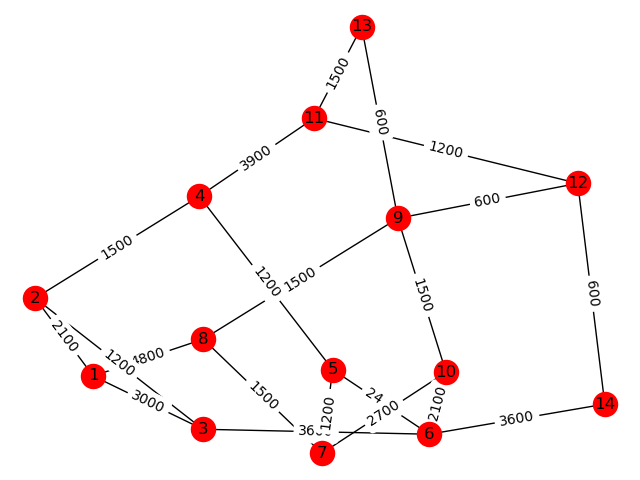
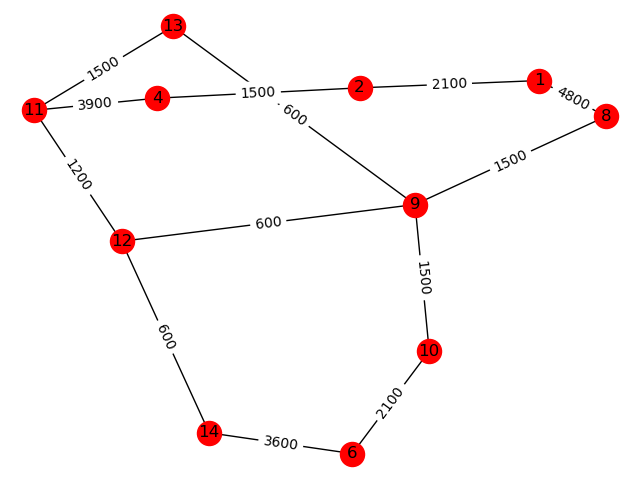
2022-5-1 13:17:21

diff --git a/Algorithms.py b/Algorithms.py
@@ -1,15 +1,86 @@
+# !usr/bin/env python
+# -*- coding:utf-8 -*-
+
+# this is for planing services
+# Jeyton Lee 2022-4-28 22:59:32
+
+
 import networkx as nx
+import numpy as np
 import copy as cp
 
 from Network import Graph
 from Service import Service
+from operator import itemgetter
 
-def heuristic(Network, S):
-    for list in S.pro_service:
-        ksp_list, _ = k_shortest_paths(Network.G, list[1], list[2], k=3)
-        for path_list in ksp_list:
-            if path_list
-        print(ksp_list)
+def heuristic(Net, Serv):
+    
+    # Protection services plan
+    for pserv_list in Serv.pro_service:
+        # Allocate work path for protection service
+        allo_flag_w, work_path = R_OSU_A(pserv_list, Net, k=3, WB_flag=True)
+        
+        # Allocate backup path for protection service
+        remove_list = work_path[1:-1]
+        Net.graph_remove_nodes(remove_list) # Protection path and working path are disjoint
+        pserv_list[3] = 2 # The protection path allocates 2M bandwidth
+        # Allocate backup path for protection service
+        allo_flag_b, backup_path = R_OSU_A(pserv_list, Net, k=3, WB_flag=False, work_path=work_path)
+        
+        if allo_flag_w & allo_flag_b == True:
+            Serv.pro_service[pserv_list[0]][5] = 'SUCC'
+            Serv.serv_path.append([pserv_list[0], work_path, 'W'])
+            Serv.serv_path.append([pserv_list[0], backup_path, 'B'])
+        else:
+            Serv.pro_service[pserv_list[0]][5] = 'BLOCK'
+            Serv.serv_path.append([pserv_list[0], [], None])
+            Serv.serv_path.append([pserv_list[0], [], None])
+
+    print(Serv.serv_path)
+
+def R_OSU_A(single_serv, Net, k, WB_flag=True, work_path=[]):
+    """
+        Calculate paths for service and allocate OSU resources (including working paths or protection paths)
+
+        :param single_serv: List of single service
+        :param Net: Network, including graph G for computing working paths and BG for computing protection paths
+        :param k: k of ksp
+        :param WB_flag: True->caculate work path; False->caculate backup path
+        :param work_path: Used to determine whether the backup path and the working path are the same, the default is []
+        """
+
+    if WB_flag == True:
+        ksp_list, _ = k_shortest_paths(Net.G, single_serv[1], single_serv[2], k)
+    else:
+        ksp_list, _ = k_shortest_paths(Net.BG, single_serv[1], single_serv[2], k)
+        
+    allo_flag = False
+    alloc_path = [] # list of service allocated paths: [service ID, [the allocated path]]
+    for path_list in ksp_list:
+        
+        # Eliminate the situation where the direct connection of the working path leads to the same calculation result of the protection path
+        if (WB_flag == False) & (path_list == work_path):
+            continue
+        
+        path_avail_flag = True
+        
+        link_key_list = []
+        for i in range(len(path_list)-1):
+            link_key = str(path_list[i])+'->'+str(path_list[i+1])
+            link_key_list.append(link_key)
+
+            if Net.network_status[link_key] < single_serv[3]:
+                path_avail_flag = False
+                break
+            
+        if path_avail_flag ==True:
+            for key in link_key_list:
+                Net.network_status[key] = Net.network_status[key]- single_serv[3]
+            allo_flag = True
+            alloc_path = path_list
+            break
+    
+    return allo_flag, alloc_path
 
 
 
@@ -60,6 +131,7 @@ if __name__ == '__main__':
     G.graph_read('NSFNET.md')
     G.graph_init()
     S = Service()
-    S.generate_service(G, 200, 300)
+    S.generate_service(G, 20, 0)
 
+    np.set_printoptions(suppress=True)
     heuristic(G, S)

diff --git a/Network.py b/Network.py
@@ -18,11 +18,12 @@ class Graph:
     def __init__(self):
         self.file_prefix = 'resource'
         self.G = None
+        self.BG = None
         self.node_num = None
         self.link_num = None
         self.node_edge = None #node-edge relation ndarray
         self.link_capacity = 100000 #100Gbps of each link
-        self.
+        self.network_status = dict() 
 
     # initalize the graph
     def graph_init(self):
@@ -32,14 +33,29 @@ class Graph:
         G.add_nodes_from([i for i in range(1, self.node_num+1)])
         G.add_weighted_edges_from(self.node_edge)
         self.G = G
-        #print(type(self.G))
+
+        status_key = []
+        status_value = []
+        for link in self.node_edge:
+            status_key.append(str(link[0])+'->'+str(link[1]))
+            status_key.append(str(link[1])+'->'+str(link[0]))
+            status_value.append(self.link_capacity)
+            status_value.append(self.link_capacity)
+        self.network_status = dict(zip(status_key, status_value))
+        #print(self.network_status)
+
+    def graph_remove_nodes(self, node_list):
+        BG = nx.Graph
+        BG = copy.deepcopy(self.G)
+        self.BG = BG
+        self.BG.remove_nodes_from(node_list)
 
     # draw the graph topology
     def graph_draw(self):
-        pos = nx.spring_layout(self.G) # choose a layout from https://networkx.github.io/documentation/latest/reference/drawing.html#module-networkx.drawing.layout
-        weights = nx.get_edge_attributes(self.G, 'weight')
-        nx.draw(self.G, pos, with_labels=True)
-        nx.draw_networkx_edge_labels(self.G, pos, edge_labels=weights)
+        pos = nx.spring_layout(self.BG) # choose a layout from https://networkx.github.io/documentation/latest/reference/drawing.html#module-networkx.drawing.layout
+        weights = nx.get_edge_attributes(self.BG, 'weight')
+        nx.draw(self.BG, pos, with_labels=True)
+        nx.draw_networkx_edge_labels(self.BG, pos, edge_labels=weights)
         plt.savefig('./topo.png')
 
     # read the graph file
@@ -51,7 +67,7 @@ class Graph:
         :param topo_file: network topology
         """
         file = os.path.join(self.file_prefix, topo_file)
-        rtn = {}
+
         if os.path.isfile(file):
             datas = np.loadtxt(file, dtype = str, delimiter='|', skiprows=2)
             origin_data = datas[:, 1:(datas.shape[1]-1)]
@@ -80,4 +96,5 @@ if __name__ == '__main__':
     G = Graph()
     G.graph_read('NSFNET.md')
     G.graph_init()
+    G.graph_remove_nodes([3,5,7])
     G.graph_draw()

diff --git a/Service.py b/Service.py
@@ -14,18 +14,21 @@ import copy
 
 from args import args
 from Network import Graph
+from operator import itemgetter
 
 class Service:
     def __init__(self):
         self.serviceProportion = {
             2: 0.1,    100: 0.3,    500: 0.1, 
-            1000: 0.2, 100000: 0.2, 250000: 0.1}
+            1000: 0.2, 10000: 0.2, 25000: 0.1}
         self.pro_service = []
         self.unpro_service = []
+        self.serv_path = []
 
     def generate_service(self, g, pro_serv_num, unpro_serv_num):
         self.pro_service = generate_proservice(g, self.serviceProportion, pro_serv_num)
         self.unpro_service = generate_unproservice(g, self.serviceProportion, unpro_serv_num)
+        #self.is_block = np.zeros(pro_serv_num+unpro_serv_num)
 
         
         #print("=====>Protection Service List:", *self.pro_service,  sep='\n')
@@ -51,7 +54,7 @@ def generate_proservice(g, serv_prop: dict, pro_serv_num: int):
         while(rand_src == rand_dst):
             rand_dst = random.randint(1,g.node_num)
         rand_reli = round(random.uniform(0.5,1),2)
-        pro_serv = [i, rand_src, rand_dst, serv_band[i], rand_reli, 'P']
+        pro_serv = [i, rand_src, rand_dst, serv_band[i], rand_reli, None]
         pro_serv_list.append(pro_serv)
     
     return(pro_serv_list)
@@ -74,7 +77,7 @@ def generate_unproservice(g, serv_prop: dict, unpro_serv_num: int) -> list:
         rand_dst = random.randint(1,g.node_num)
         while(rand_src == rand_dst):
             rand_dst = random.randint(1,g.node_num)
-        unpro_serv = [i, rand_src, rand_dst, serv_band[i], 0, 'U']
+        unpro_serv = [i, rand_src, rand_dst, serv_band[i], 0, None]
         unpro_serv_list.append(unpro_serv)
     
     return(unpro_serv_list)
@@ -85,4 +88,7 @@ if __name__ == '__main__':
     g.graph_init()
 
     s = Service()
+
+    keys = [2,100,500]
+    print(itemgetter(*keys)(s.serviceProportion))
     s.generate_service(g, 200, 300)
